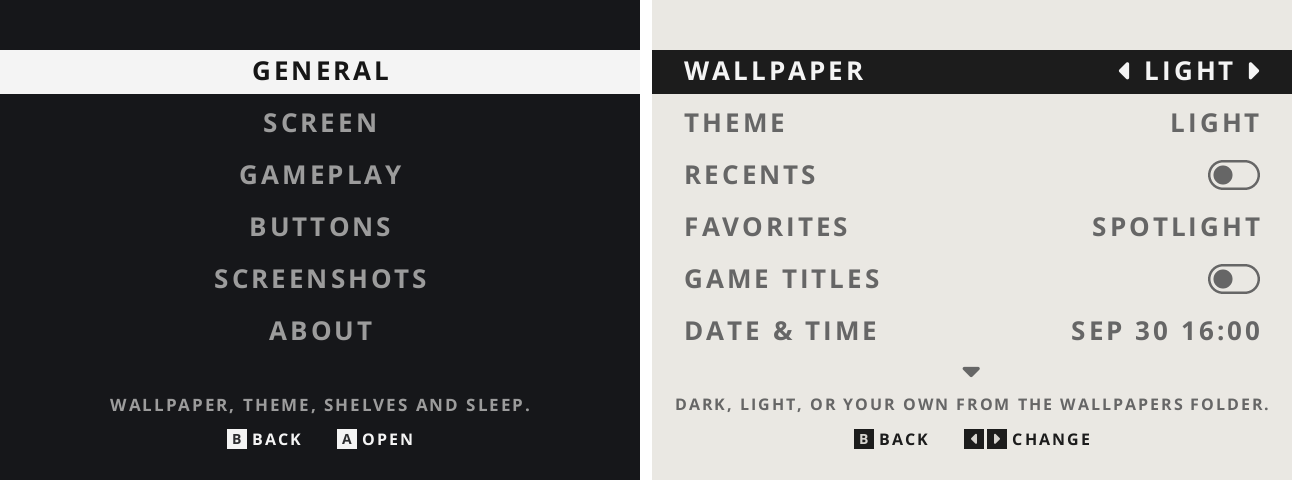
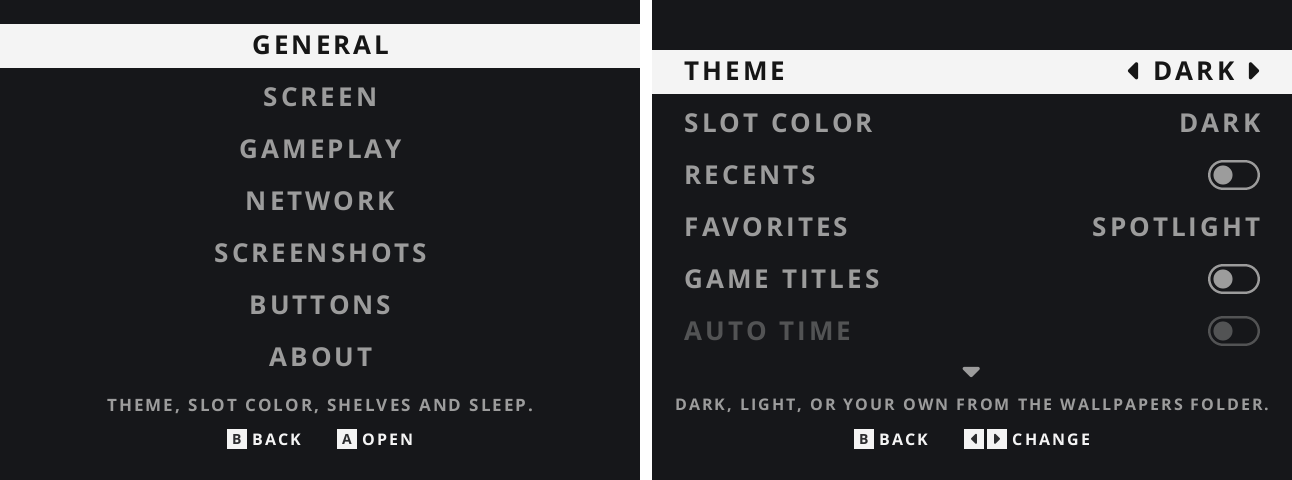
README and changelog for v1.1: NES, SNES, Super Game Boy, cartridge studio, sleep
Claude-Session: https://claude.ai/code/session_0182ERMgiiH3QvHTFA9UTzpA

diff --git a/README.md b/README.md
@@ -2,13 +2,13 @@
 
 # slot. x GRAVY
 
-**My own take on [slot.](https://github.com/BrandonKowalski/slot), Brandon Kowalski's Game Boy–centric frontend, for the Anbernic RG35XX Plus**
+**My own take on [slot.](https://github.com/BrandonKowalski/slot), Brandon Kowalski's Game Boy–centric frontend, for the Anbernic RG35XX Plus (and 3:2 panels like the RG34XX SP)**
 
 slot.'s real cartridges on a shelf and its real cartridge slot, with a little extra gravy on top.
 
 <img src=".github/resources/gravy/carousel.gif" width="640" alt="Scrolling the GBA shelf and pushing Goodboy Galaxy into the slot">
 
-[**Download slot-x-gravy-v1.0.2**](https://github.com/roygravy/slot/releases) · [Install](#install) · [What's in the gravy](#whats-in-the-gravy) · [Controls](#controls)
+[**Download slot-x-gravy-v1.1**](https://github.com/roygravy/slot/releases) · [Install](#install) · [What's in the gravy](#whats-in-the-gravy) · [Controls](#controls)
 
 </div>
 
@@ -18,7 +18,7 @@ slot.'s real cartridges on a shelf and its real cartridge slot, with a little ex
 
 [slot.](https://github.com/BrandonKowalski/slot) is Brandon Kowalski's Game Boy frontend: a shelf of real cartridges, a real slot to push them into, save states, rewind, a link cable, Markus's lovely artwork, and a shelf that's there **3 to 5 seconds** after you power on. New to it? Start at **[slot-cfw.fyi](https://slot-cfw.fyi)**.
 
-slot. x GRAVY is that, with my own gravy poured over it, made for the Anbernic RG35XX Plus. Same slot. underneath; a screen, a slot and a set of menus that feel a bit more like mine. It plays GB, GBC and GBA games (unzipped ROMs) on mGBA, gpSP and Gambatte.
+slot. x GRAVY is that, with my own gravy poured over it, made for the Anbernic RG35XX Plus. Same slot. underneath; a screen, a slot and a set of menus that feel a bit more like mine. It plays GB, GBC, GBA, NES and SNES games (unzipped ROMs) on mGBA, gpSP, Gambatte, FCEUmm and Snes9x, and Game Boy games on a Super Game Boy.
 
 ---
 
@@ -38,11 +38,29 @@ Rather have it clean? **SELECT + B** turns it all off, and back on.
 
 ### A slot for every cartridge
 
-Game Boy games go into a Game Boy slot, GBA games into a GBA SP slot, both redrawn in moulded plastic, down to the ribs on the back wall. Two new wallpapers come along, and either one goes with the Dark or the Light theme.
+Game Boy games go into a Game Boy slot, GBA games into a GBA SP slot, both redrawn in moulded plastic, down to the ribs on the back wall. Two new wallpapers come along, and either one goes with the Dark or the Light theme. The slot itself comes in Dark, Light or Originals, the colours of the real consoles.
 
 <img src=".github/resources/gravy/themes.png" width="100%" alt="The Game Boy Color shelf in the dark and the light theme">
 
 <img src=".github/resources/gravy/slots.png" width="100%" alt="The empty GBA slot and a Game Boy cart seated in its slot, dark and light">
+
+### NES and SNES, on their own shelves
+
+New in v1.1: an NES and a Super Nintendo shelf, each with its own slot, the NES with the two black blocks beside the lid of the real thing. Carts come in the NTSC and PAL moulds, and the picture goes through a CRT: an NES in Authentic or Trinitron colours, a Super Nintendo on a flat Trinitron, both through a composite signal.
+
+<img src=".github/resources/gravy/tv.png" width="100%" alt="The NES shelf with the Originals slot and the Super Nintendo shelf">
+
+### A Super Game Boy
+
+Put the Super Game Boy cart in the SNES slot and the camera zooms in onto the Game Boy shelf inside it. Game Boy games then play in their Super Game Boy colours with a border around them: the game's own, one of the eight real borders read from your `SGB1.sfc` or `SGB2.sfc`, or the slot. x GRAVY border.
+
+<img src=".github/resources/gravy/sgb.png" width="100%" alt="The Game Boy shelf on the Super Game Boy, and Hauntsfield in Super Game Boy colours with the slot. x GRAVY border">
+
+### A cartridge of your own
+
+Press **SELECT** on a cart to open the cartridge studio: pick its shell colour and finish (solid, clear, glitter), fetch its label with **Y**, or give a blank cart a title in black, white or gold marker. Every system, NES and SNES included.
+
+<img src=".github/resources/gravy/studio.png" width="100%" alt="The cartridge studio for an NES cart and for a Super Nintendo cart">
 
 ### Menus of their own
 
@@ -70,34 +88,29 @@ Switch a game's cheats on and off while you play. The whole RetroArch cheat coll
 
 ### Favorites in the spotlight
 
-Star a cart with **Y** and it stands a little taller under a warm spotlight. Prefer a glow or a plain star? That's a setting.
+Star a cart with **Y** and it stands a little taller under a warm spotlight. Prefer a glow, a highlight behind the cart or a plain star? That's a setting.
 
 <img src=".github/resources/gravy/favorites.png" width="100%" alt="The Favorites shelf in dark and light">
-
-### The back of a Game Boy
-
-The About page is the back of the handheld, credits moulded into the plastic and a serial sticker stuck on slightly crooked.
-
-<img src=".github/resources/gravy/about.png" width="100%" alt="The About page in dark and light">
 
 ### Home Wi-Fi
 
 Put your networks in `Config/wifi.toml` (copy `wifi.toml.example`) and turn **Home Wi-Fi** on under **Network** in the menu. From then on it works by itself:
 
-- A small Wi-Fi mark next to the battery shows when you are on your home network, and the clock sets itself
-- Carts without label art get one in the background, found by the ROM's checksum or name. No Wi-Fi? Put an `Artwork.pack` in `Labels/` and labels come from there. A label you added yourself is never replaced
+- A phone-style status bar shows the clock, Wi-Fi and battery, and the clock sets itself (Auto Time, with your city's own summer time)
+- Carts without label art get one in the background, found by the ROM's checksum or name; **Y** in the cartridge studio lets you search and pick another. No Wi-Fi? Put an `Artwork.pack` in `Labels/` and labels come from there. A label you added yourself is never replaced
+- Each game gets its cheats from the libretro database
 - Two handhelds at home link over your home network, no ad hoc network needed. Away from home the usual direct link still works
 
 More in [network/README.md](network/README.md).
 
 ### And a handful of smaller things
 
-- Tap **POWER** to sleep; hold it and a bar counts down to power off
+- Tap **POWER** to sleep: a light sleep first, which any button wakes, and after a few minutes a real deep sleep (suspend to RAM) that POWER wakes, about half a percent of battery an hour. Hold POWER and a bar counts down to power off
 - **START + SELECT** resets the game
 - **Resume Game** powers straight back into your game, its picture as the boot screen
 - Carts without label art get their title written on by hand
 - Native 640×480, with Game Boy and Game Boy Color games filling the screen; **L1 / R1** flips between full screen and original size
-- Starts on your Favorites; GB, GBC, GBA in that order
+- Starts on your Favorites; GB, GBC, GBA, NES, SNES in that order
 
 <img src=".github/resources/gravy/marker.png" width="100%" alt="Carts with no label art, titled in marker">
 <img src=".github/resources/gravy/buttons.png" width="100%" alt="The Buttons pages">
@@ -106,10 +119,10 @@ More in [network/README.md](network/README.md).
 
 ## Install
 
-1. Download **slot-x-gravy-v1.0.2.zip** from the [releases](https://github.com/roygravy/slot/releases).
-2. Unzip it and copy the **contents** of the `slot-x-gravy-v1.0.2` folder onto the second SD card of your RG35XX Plus.
-3. Put your games in `Games/GB`, `Games/GBC` and `Games/GBA`, and optional label art (PNG, named like the ROM) in the matching `Labels` folders.
-4. Put the BIOS files (`gb_bios.bin`, `gbc_bios.bin`, `gba_bios.bin`) in `BIOS/` if you have them.
+1. Download **slot-x-gravy-v1.1.zip** from the [releases](https://github.com/roygravy/slot/releases).
+2. Unzip it and copy the **contents** of the `slot-x-gravy-v1.1` folder onto the second SD card of your RG35XX Plus.
+3. Put your games in `Games/GB`, `Games/GBC`, `Games/GBA`, `Games/NES` and `Games/SNES`, and optional label art (PNG, named like the ROM) in the matching `Labels` folders.
+4. Put the BIOS files (`gb_bios.bin`, `gbc_bios.bin`, `gba_bios.bin`) in `BIOS/` if you have them. For the real Super Game Boy borders, put your own `SGB1.sfc` and/or `SGB2.sfc` in `BIOS/` too (any name works).
 
 ROMs must be unzipped; `.zip` and `.7z` are not read.
 
@@ -141,6 +154,7 @@ The full list is on the **Buttons** pages in the menu. The essentials:
 |---|---|
 | VOL+ and POWER | Screenshot |
 | POWER / Hold POWER | Sleep / power off |
+| Any button | Wake from light sleep |
 | SELECT + Up / Down | Brightness |
 
 ---
@@ -154,9 +168,11 @@ slot. x GRAVY builds the same way slot. does; see `taskfile.yml`. The cartridge 
 ## Credits
 
 - **[slot.](https://github.com/BrandonKowalski/slot)** by Brandon Kowalski, with artwork by Markus and contributions from its community: everything slot. x GRAVY is built on, and most of what it does
-- **mGBA**, **gpSP** and **Gambatte**, the emulator cores (their licenses and sources ship in `System/licenses`)
+- **mGBA**, **gpSP**, **Gambatte**, **FCEUmm** and **Snes9x**, the emulator cores (their licenses and sources ship in `System/licenses`)
 - **Permanent Marker** by Font Diner (Apache 2.0) for the handwritten titles
 - **Liberation Sans** by Red Hat (SIL OFL 1.1), subset as "slot Serial", for the serial sticker on the About page
+- The CRT shaders and Blargg's NTSC filter from the **[libretro](https://github.com/libretro)** shader collections
+- Cart labels from **LaunchBox**'s games database
 - The cheats from the **[libretro-database](https://github.com/libretro/libretro-database)** by the libretro team and contributors (CC BY-SA 4.0)
 - **Home Wi-Fi**, the label scraping and linking over the home network come from **[Prashant Vaibhav's fork](https://github.com/pvaibhav/slot)** of slot.
 - **Goodboy Galaxy** (demo), **Hauntsfield** and **Mud Warriors**, the free games in the screenshots

diff --git a/CHANGELOG.md b/CHANGELOG.md
@@ -7,6 +7,13 @@ Everything since slot. x GRAVY v1.0.2.
 ### New
 
 - **Deep sleep**: a tap on POWER now really puts the console to sleep (suspend to RAM). The green light blinks out as it falls asleep, POWER wakes it straight back into your game. Overnight it uses about half a percent of battery an hour.
+- **NES and SNES**: their own shelves and slots, on FCEUmm and Snes9x, with NTSC and PAL cart moulds. The picture goes through a CRT shader and Blargg's NTSC composite filter. NES colours: Authentic or Trinitron.
+- **Super Game Boy**: put the SGB cart in the SNES slot and the camera zooms onto the Game Boy shelf inside it. Games play in SGB colours with their own border, one of the eight real borders read from `SGB1.sfc` / `SGB2.sfc` in `BIOS/`, or the slot. x GRAVY border.
+- **Light Sleep** before the deep sleep: Wi-Fi stays on, any button wakes it; after Direct / 5 / 10 / 30 minutes (5 by default) it goes into deep sleep, which only POWER wakes.
+- **Slot Color**: Dark, Light or Originals, the colours of the real consoles. The NES Originals slot has the two black blocks beside the lid.
+- **Highlight** behind the cart, next to Spotlight, Glow and Star, for Favorites.
+- **Label search**: Y in the cartridge studio searches for a label and lets you pick another, Europe first, then USA, then Japan. The on-screen keyboard has accents.
+- Your own wallpaper gets black menus, whatever the Slot Color.
 - **3:2 screens** (RG34XX SP, 720x480): the shelf and menus span the whole panel, and full screen GB/GBC, GBA, save states and screenshots fill it without black bars. The GBA LCD filter keeps to the panel's own pixels.
 - **Home Wi-Fi** (ported from pvaibhav/slot): join your home network from Settings -> General -> Home Wi-Fi. Networks are listed in `Config/wifi.toml`.
 - **Network** has its own row in the menu, with Home Wi-Fi on/off and the network you are connected to.
